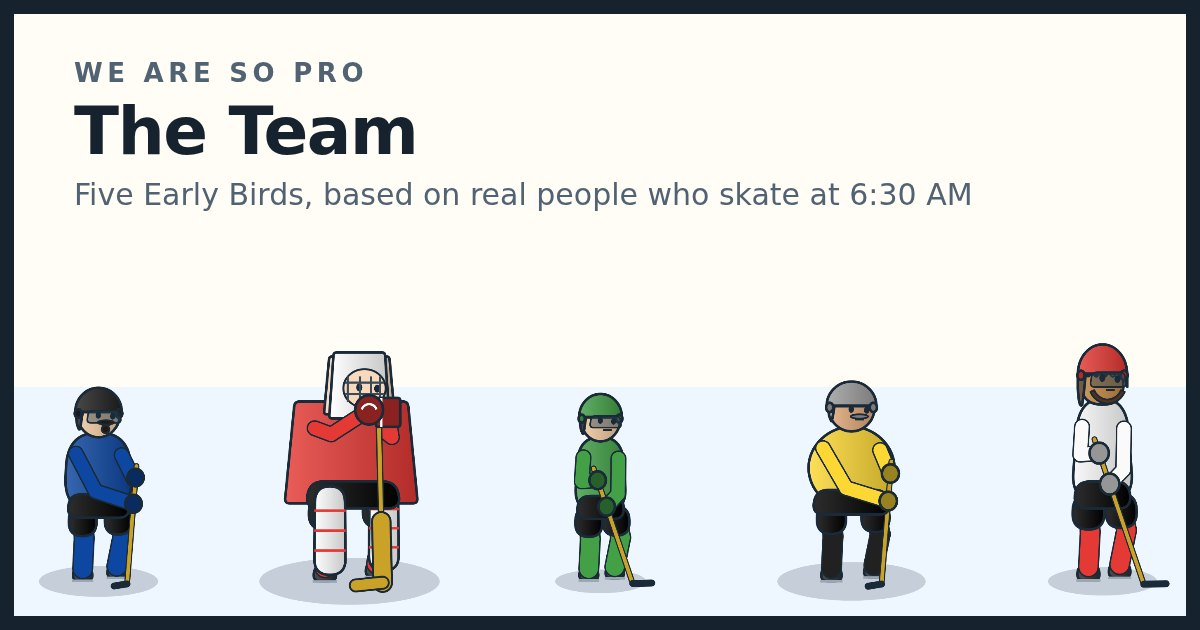
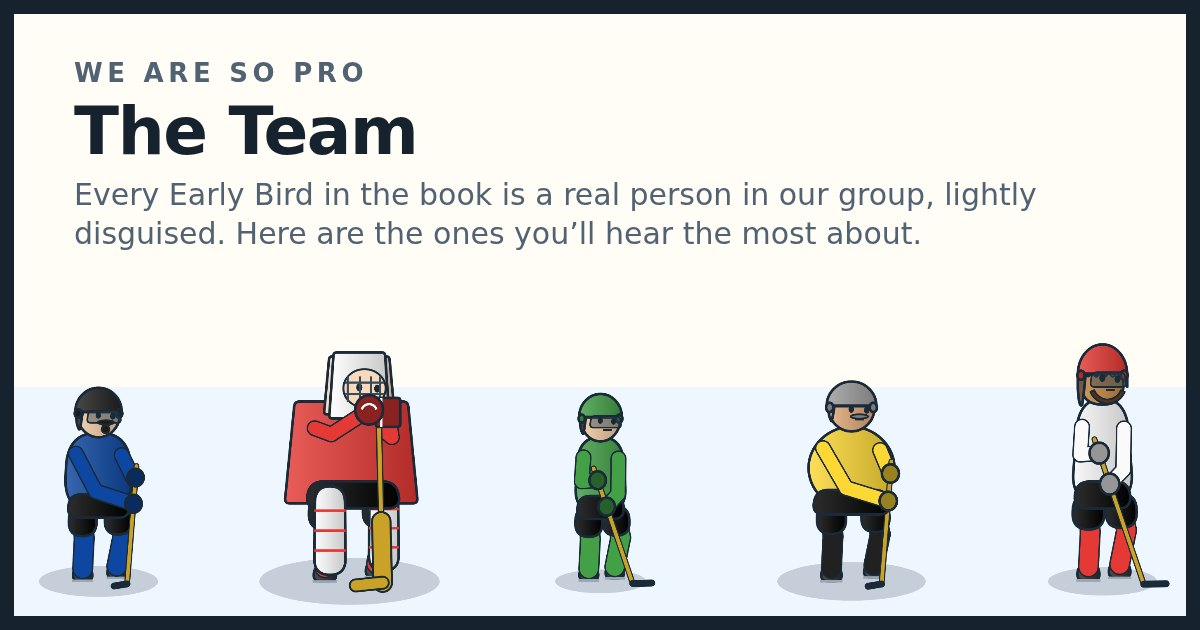
the share-card generator lives in the repo, and repeats nothing
It linked to team.data.js for the codes but carried a hand-typed copy of every
name and tagline. It now fetches those from the page each card is for.

Changed region(s): [[0.0617, 0.2714, 0.8633, 0.3921]]

diff --git a/tools/ogcards/card.js b/tools/ogcards/card.js
@@ -1,0 +1,56 @@
+// Share-card generator. Nothing is retyped here: the look comes from
+// TEAM_CODES (team.data.js) and the words come from the page the card is for,
+// so a card can never disagree with its own page.
+//
+//   /tools/ogcards/card.html?who=dale   one player
+//   /tools/ogcards/card.html?who=team   the whole line-up
+//
+// Screenshot it at 1200x630 - see docs/page-metadata.md.
+
+(function () {
+
+  const PAGE = { team: "/team.html" };   // anyone else: /team/<who>.html
+
+  function pageFor(who) {
+    return PAGE[who] || "/team/" + who + ".html";
+  }
+
+  // The heading and the line under it, straight out of the live page.
+  async function words(who) {
+    const html = await (await fetch(pageFor(who))).text();
+    const doc = new DOMParser().parseFromString(html, "text/html");
+    const main = doc.querySelector("main");
+    return {
+      name: main.querySelector("h1").textContent.trim(),
+      tag: (main.querySelector("p.muted") || {}).textContent.trim()
+    };
+  }
+
+  function draw(canvas, code) {
+    canvas.width = CAP_DRAW.LW * CAP_DRAW.S;
+    canvas.height = CAP_DRAW.LH * CAP_DRAW.S;
+    CAP_DRAW.render(canvas.getContext("2d"), CAP_CODE.load(code), 0.5, null, { background: false });
+  }
+
+  async function build() {
+    const who = new URLSearchParams(location.search).get("who") || "team";
+    const said = await words(who);
+    document.getElementById("who-name").textContent = said.name;
+    document.getElementById("who-tag").textContent = said.tag;
+
+    const art = document.querySelector(".art");
+    if (who !== "team") return draw(document.getElementById("who-canvas"), TEAM_CODES[who]);
+
+    document.querySelector(".card").classList.add("is-group");
+    art.className = "group";
+    art.innerHTML = "";        // the single-player canvas is not part of a line-up
+    Object.keys(TEAM_CODES).forEach(function (k) {
+      const c = document.createElement("canvas");
+      art.appendChild(c);
+      draw(c, TEAM_CODES[k]);
+    });
+  }
+
+  document.addEventListener("DOMContentLoaded", build);
+
+})();

diff --git a/tools/ogcards/card.css b/tools/ogcards/card.css
@@ -1,0 +1,26 @@
+/* 1200x630 exactly - the size Facebook, X and iMessage want. */
+:root{--ink:#16222E;--paper:#FFFDF6;--muted:#516273;--ice:#EEF6FF}
+*{margin:0;padding:0;box-sizing:border-box}
+body{width:1200px;height:630px;overflow:hidden;background:var(--paper);
+  font-family:"DejaVu Sans","Segoe UI",system-ui,sans-serif;color:var(--ink)}
+.card{display:flex;align-items:center;height:100%;gap:40px;padding:60px 70px;
+  border:14px solid var(--ink);background:
+   linear-gradient(180deg,var(--paper) 0%,var(--paper) 62%,var(--ice) 62%,var(--ice) 100%)}
+.text{flex:1;min-width:0}
+.kicker{font-size:26px;font-weight:700;letter-spacing:.18em;text-transform:uppercase;color:var(--muted)}
+h1{font-size:82px;line-height:1.02;margin:16px 0 20px;letter-spacing:-.02em}
+.tag{font-size:34px;line-height:1.3;color:var(--muted);max-width:19ch}
+.book{margin-top:34px;display:inline-block;font-size:26px;font-weight:700;color:#fff;
+  background:var(--ink);padding:14px 26px;border-radius:999px}
+.art{flex:0 0 430px;display:flex;justify-content:center;align-items:flex-end;height:100%}
+canvas{height:540px;width:auto}
+
+/* The hub card: heading across the top, the whole line-up underneath. */
+.card.is-group{flex-direction:column;align-items:stretch;gap:0;padding:44px 60px 0}
+.card.is-group .text{flex:0 0 auto}
+.card.is-group h1{font-size:66px;margin:10px 0 10px}
+.card.is-group .tag{max-width:none;font-size:30px}
+.card.is-group .book{display:none}
+.group{display:flex;align-items:flex-end;justify-content:center;flex:1 1 auto;width:100%}
+.group canvas{height:330px}
+.group canvas + canvas{margin-left:-46px}   /* shoulder to shoulder */

diff --git a/tools/ogcards/card.html b/tools/ogcards/card.html
@@ -1,0 +1,24 @@
+<!doctype html>
+<html lang="en">
+<head>
+<meta charset="utf-8">
+<title>Share card generator</title>
+<link rel="stylesheet" href="/tools/ogcards/card.css">
+<script defer src="/games/assets/js/create-a-player.data.js"></script>
+<script defer src="/games/assets/js/create-a-player.codec.js"></script>
+<script defer src="/games/assets/js/create-a-player.draw.js"></script>
+<script defer src="/team/assets/js/team.data.js"></script>
+<script defer src="/tools/ogcards/card.js"></script>
+</head>
+<body>
+<div class="card">
+  <div class="text">
+    <p class="kicker">We Are So Pro</p>
+    <h1 id="who-name"></h1>
+    <p class="tag" id="who-tag"></p>
+    <p class="book">Meet the Early Birds</p>
+  </div>
+  <div class="art"><canvas id="who-canvas"></canvas></div>
+</div>
+</body>
+</html>

diff --git a/.claude/FILES.md b/.claude/FILES.md
@@ -81,6 +81,7 @@ Character profiles. See `docs/team.md`.
 - `tools/templates/site-links.html` — Markup template for the generated nav block; `{{links}}` is where the links go. First and last lines are the markers `build.py` searches for.
 - `tools/templates/site-link.html` — Markup template for one nav link (`{{href}}`, `{{label}}`).
 - `tools/templates/nav-item.html` — Markup template for one dropdown/drawer `<li>`; used for both the desktop menu and the mobile drawer.
+- `tools/ogcards/card.html` + `card.css` + `card.js` + `shoot.sh` — Share-card generator (1200x630). Reads the look from `TEAM_CODES` and the words from the page the card is for, so nothing is duplicated; `shoot.sh` screenshots each card and writes `assets/img/og-<slug>.jpg`. Dev only - it is served like any other file, but nothing links to it. Recipe: `docs/page-metadata.md`.
 - `tools/hooks/pre-commit` — Runs `make site` and the link check before every commit; blocks the commit if generated output is stale or a link is broken. Install with `make hooks`.
 
 ## widgets/
